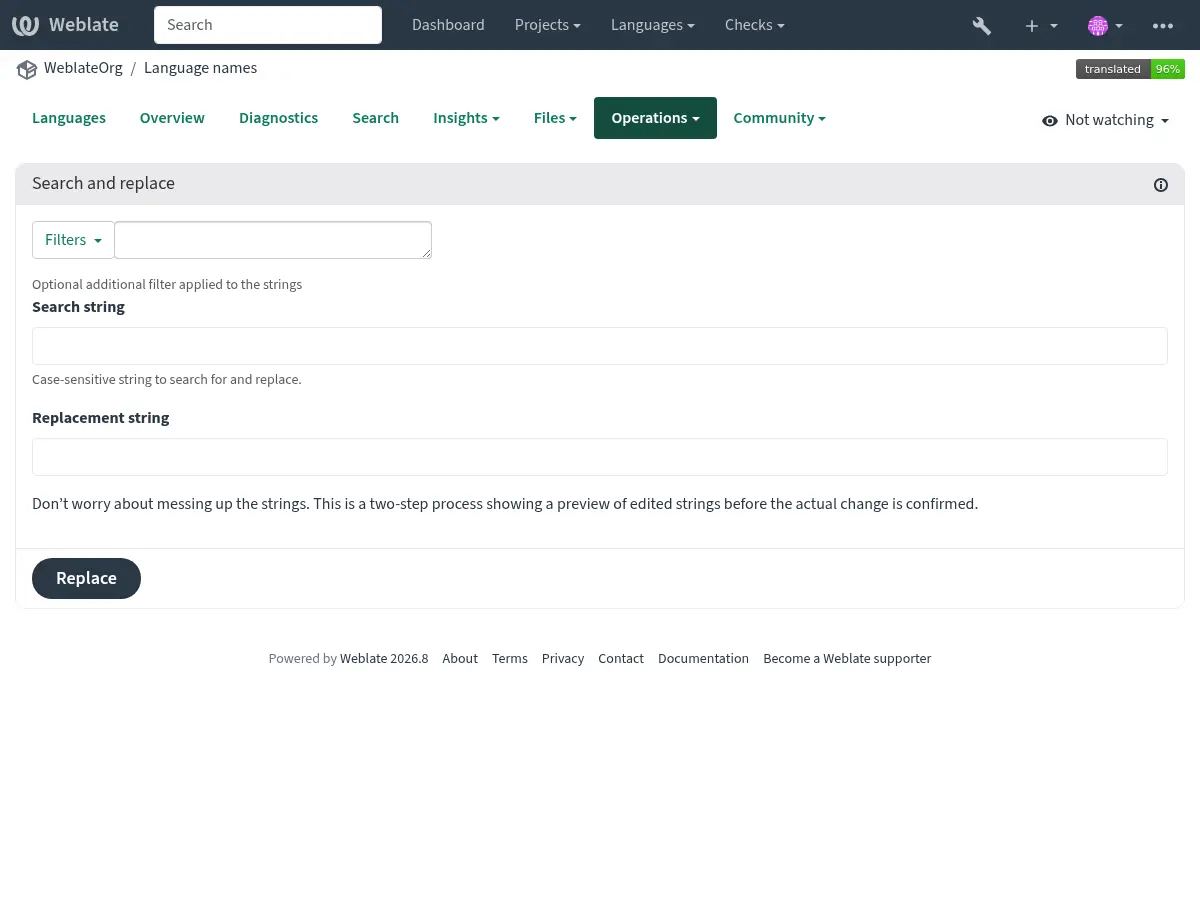
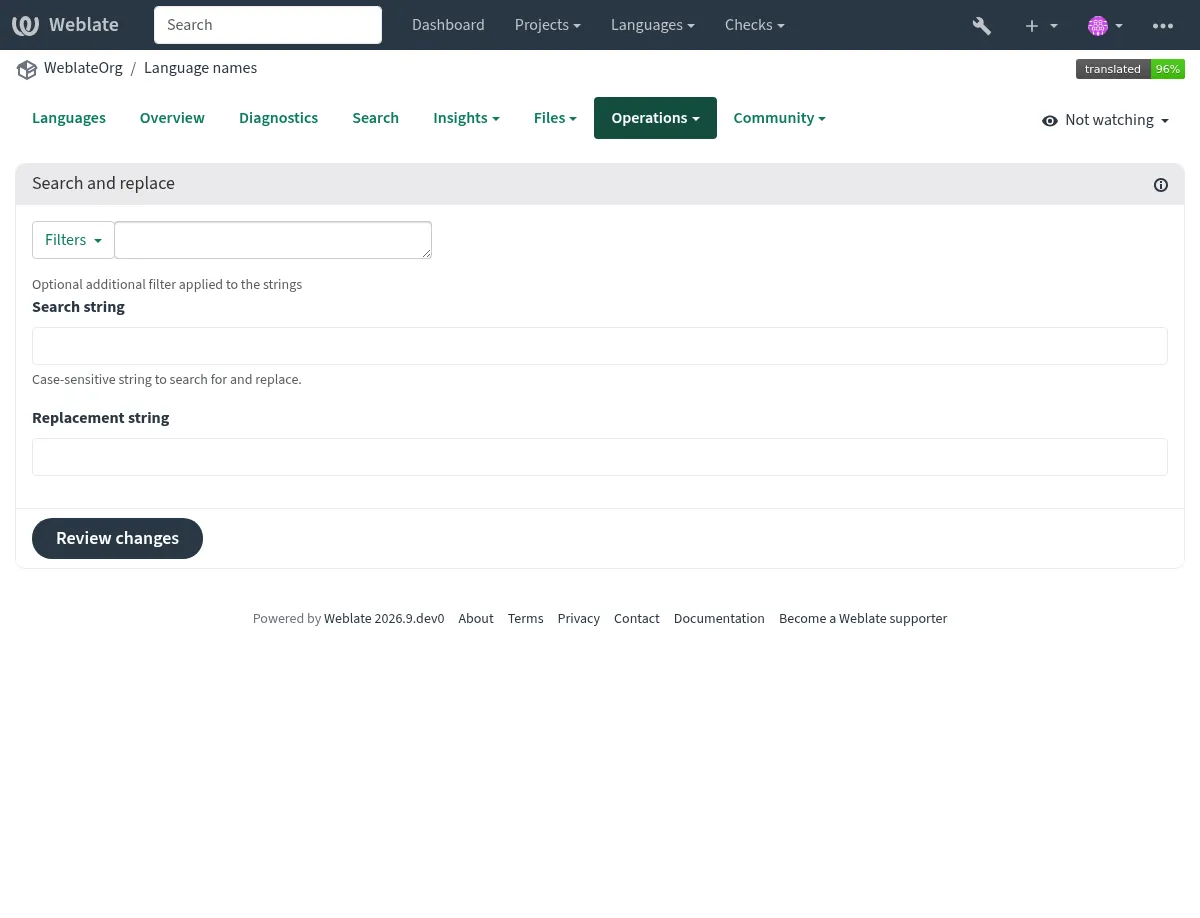
fix(search): clarify replacement preview action
Make it clear that the first step only previews changes and reserve Replace for the final confirmation.

Fixes #21217

diff --git a/weblate/templates/category-language.html b/weblate/templates/category-language.html
@@ -129,7 +129,7 @@
             </div>
             <div class="card-body">{% crispy replace_form %}</div>
             <div class="card-footer">
-              <input type="submit" value="{% translate "Replace" %}" class="btn btn-primary" />
+              <input type="submit" value="{% translate "Review changes" %}" class="btn btn-primary" />
             </div>
           </div>
         </form>

diff --git a/weblate/templates/category.html b/weblate/templates/category.html
@@ -230,7 +230,7 @@
             </div>
             <div class="card-body">{% crispy replace_form %}</div>
             <div class="card-footer">
-              <input type="submit" value="{% translate "Replace" %}" class="btn btn-primary" />
+              <input type="submit" value="{% translate "Review changes" %}" class="btn btn-primary" />
             </div>
           </div>
         </form>

diff --git a/weblate/templates/component.html b/weblate/templates/component.html
@@ -307,7 +307,7 @@
             </div>
             <div class="card-body">{% crispy replace_form %}</div>
             <div class="card-footer">
-              <input type="submit" value="{% translate "Replace" %}" class="btn btn-primary" />
+              <input type="submit" value="{% translate "Review changes" %}" class="btn btn-primary" />
             </div>
           </div>
         </form>

diff --git a/weblate/templates/language-project.html b/weblate/templates/language-project.html
@@ -197,7 +197,7 @@
             </div>
             <div class="card-body">{% crispy replace_form %}</div>
             <div class="card-footer">
-              <input type="submit" value="{% translate "Replace" %}" class="btn btn-primary" />
+              <input type="submit" value="{% translate "Review changes" %}" class="btn btn-primary" />
             </div>
           </div>
         </form>

diff --git a/weblate/templates/project.html b/weblate/templates/project.html
@@ -312,7 +312,7 @@
             </div>
             <div class="card-body">{% crispy replace_form %}</div>
             <div class="card-footer">
-              <input type="submit" value="{% translate "Replace" %}" class="btn btn-primary" />
+              <input type="submit" value="{% translate "Review changes" %}" class="btn btn-primary" />
             </div>
           </div>
         </form>

diff --git a/weblate/templates/translation.html b/weblate/templates/translation.html
@@ -208,7 +208,7 @@
             </div>
             <div class="card-body">{% crispy replace_form %}</div>
             <div class="card-footer">
-              <input type="submit" value="{% translate "Replace" %}" class="btn btn-primary" />
+              <input type="submit" value="{% translate "Review changes" %}" class="btn btn-primary" />
             </div>
           </div>
         </form>

diff --git a/weblate/templates/workspace.html b/weblate/templates/workspace.html
@@ -200,7 +200,7 @@
             </div>
             <div class="card-body">{% crispy replace_form %}</div>
             <div class="card-footer">
-              <input type="submit" value="{% translate "Replace" %}" class="btn btn-primary" />
+              <input type="submit" value="{% translate "Review changes" %}" class="btn btn-primary" />
             </div>
           </div>
         </form>

diff --git a/weblate/trans/tests/test_search.py b/weblate/trans/tests/test_search.py
@@ -609,6 +609,13 @@ class ReplaceTest(ViewTestCase):
     def test_replace(self) -> None:
         self.do_replace_test(reverse("replace", kwargs=self.kw_translation))
 
+    def test_replace_initial_action(self) -> None:
+        response = self.client.get(self.component.get_absolute_url())
+
+        self.assertContains(response, 'value="Review changes"')
+        self.assertNotContains(response, 'value="Replace"')
+        self.assertNotContains(response, "Don’t worry about messing up the strings.")
+
     def test_replace_preview_parameters_are_editable(self) -> None:
         url = reverse("replace", kwargs=self.kw_translation)
 
@@ -622,6 +629,7 @@ class ReplaceTest(ViewTestCase):
             response, "Please review and confirm the search and replace results."
         )
         self.assertContains(response, "Update preview")
+        self.assertContains(response, ">Replace</button>")
         self.assertContains(response, 'id="id_replace_search"')
         self.assertContains(response, 'id="id_replace_replacement"')
         content = response.content.decode()

diff --git a/weblate/trans/tests/test_selenium.py b/weblate/trans/tests/test_selenium.py
@@ -2081,6 +2081,12 @@ class SeleniumTests(BaseLiveServerTestCase, RegistrationTestMixin, TempDirMixin)
         self.click("Operations")
         self.click("Search and replace")
         self.assert_text_contains("#replace", "Search and replace")
+        self.assertEqual(
+            self.driver.find_element(
+                By.CSS_SELECTOR, '#replace input[type="submit"]'
+            ).get_attribute("value"),
+            "Review changes",
+        )
         self.screenshot("search-replace.png")
         self.click("Operations")
         self.click("Bulk edit")

diff --git a/weblate/trans/forms.py b/weblate/trans/forms.py
@@ -3914,7 +3914,6 @@ class ReplaceForm(forms.Form):
             Field("path"),
             Field("search"),
             Field("replacement"),
-            Div(template="snippets/replace-help.html"),
         )
 
 

diff --git a/docs/changes.rst b/docs/changes.rst
@@ -16,6 +16,7 @@ Weblate 2026.9
 * Management notices now distinguish support package activation, status refresh, unlinking, and Discover Weblate registration.
 * Clarified generic :ref:`notification hook <hooks>` matching and privacy behavior.
 * Clarified that Weblate does not populate Git submodules. See :ref:`git-submodules`.
+* The initial :ref:`search-replace` action is now labeled :guilabel:`Review changes` to distinguish it from confirmation.
 
 .. rubric:: Bug fixes
 
